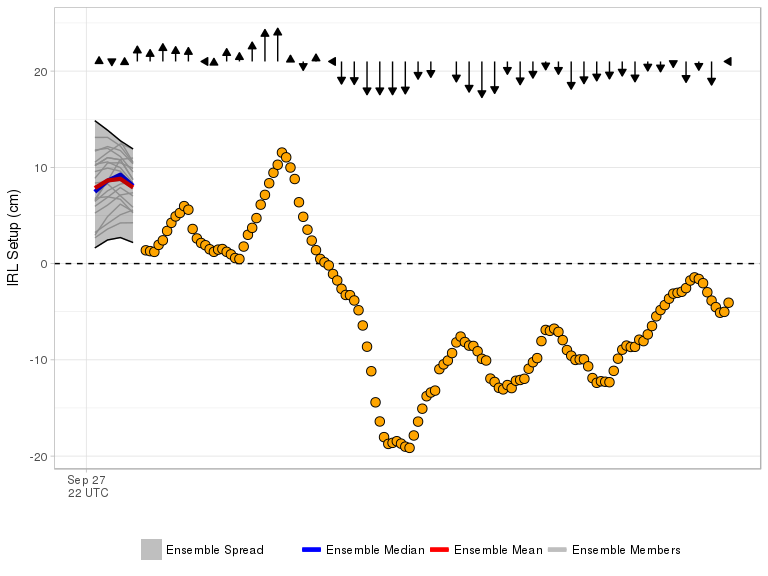
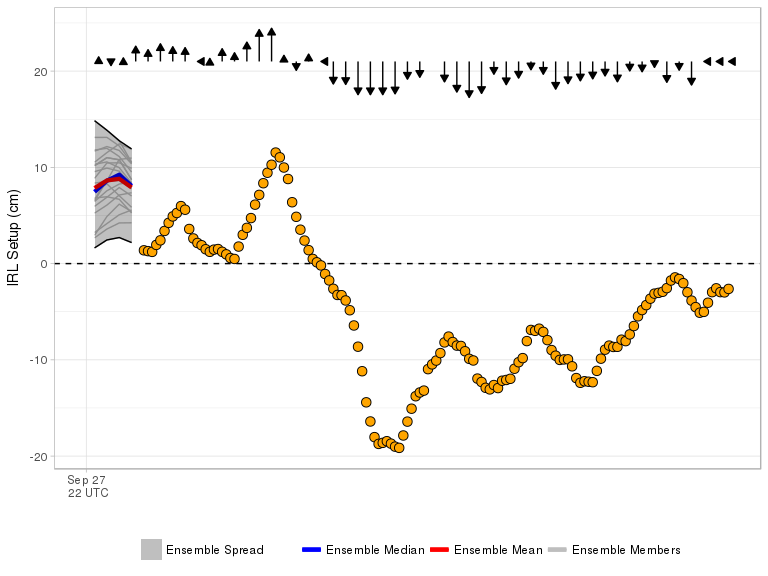
Forecast Update 2020100406

diff --git a/docs/index.md b/docs/index.md
@@ -1,9 +1,9 @@
-Current Forecast 2020-10-04 00Z
+Current Forecast 2020-10-04 06Z
 -----------------------------------
 
 [![](img/raw_setup.png)](https://fit-winds.github.io/IRLSetup/img/raw_setup.png)
 
-> Forecast valid 2020-10-04 01:37:01.
+> Forecast valid 2020-10-04 07:02:34.
 
 Explanation
 -----------
